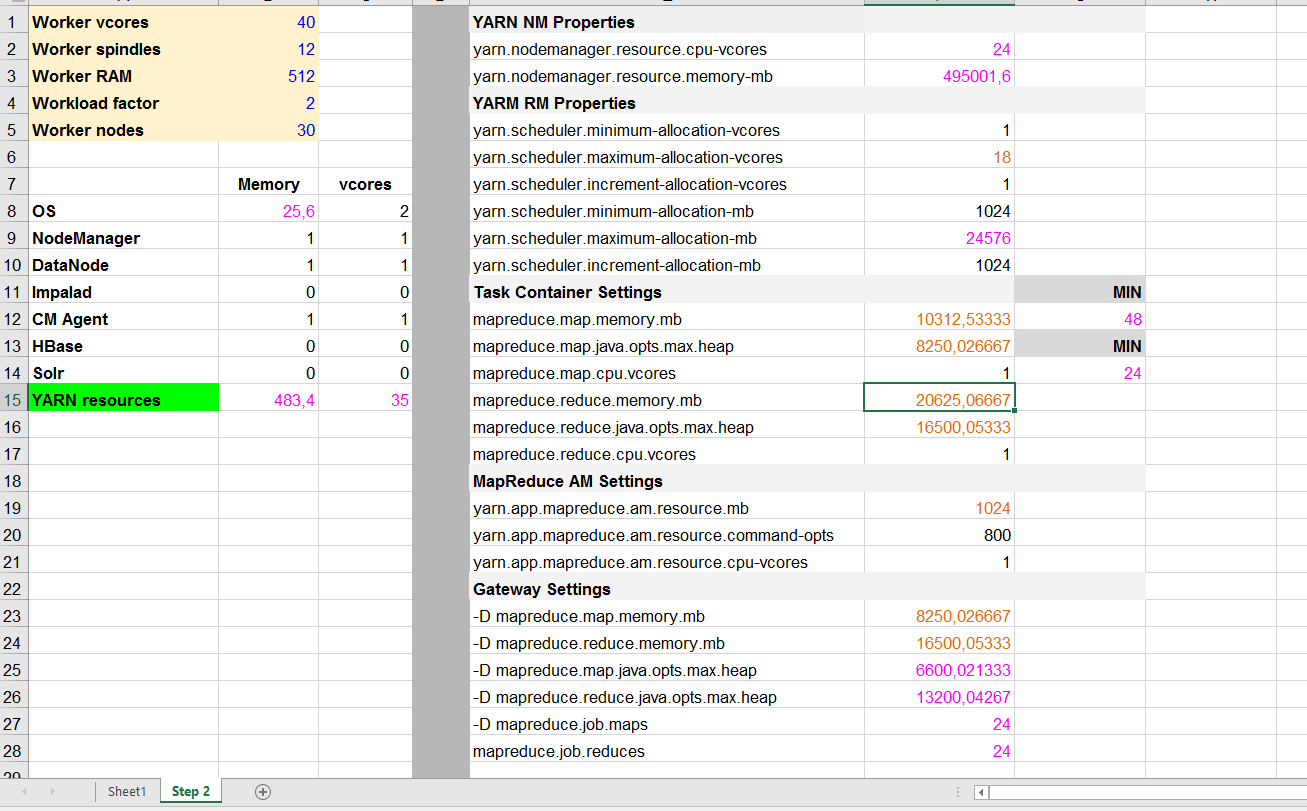
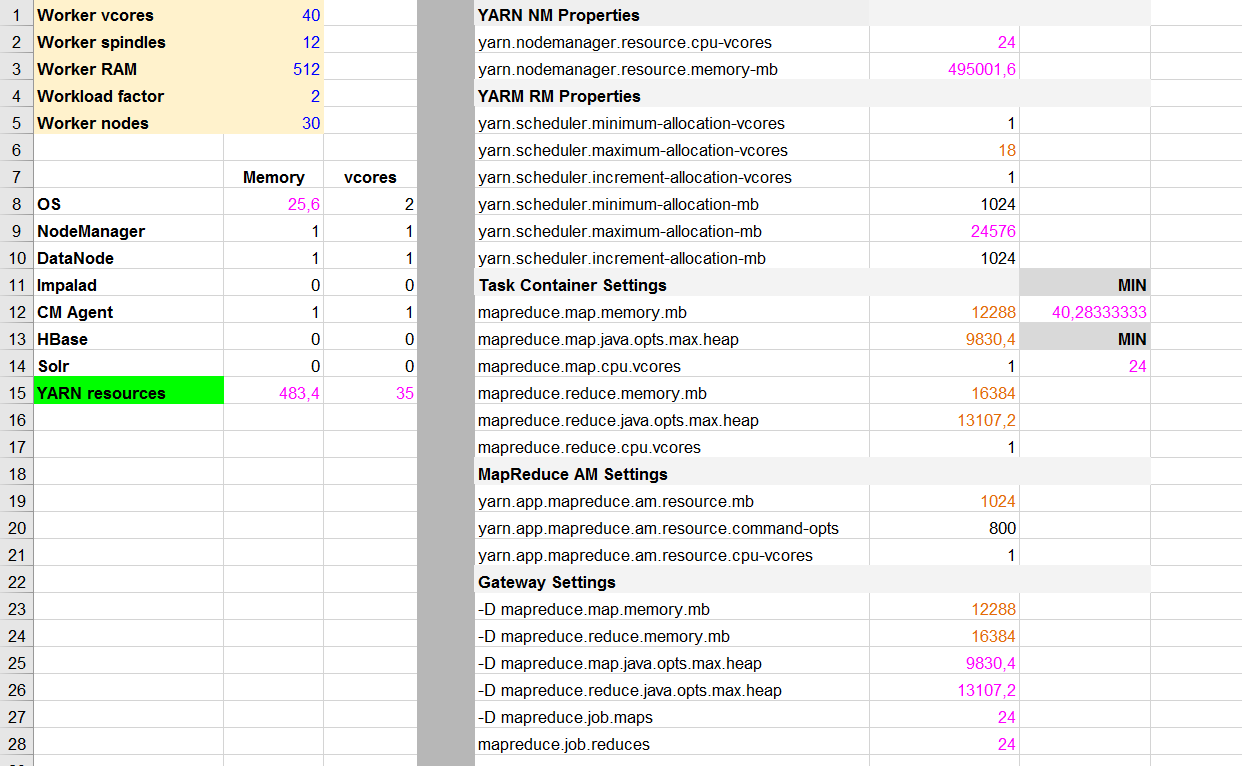
YARN/RM Lab: Doing the Math finished

diff --git a/resources/labs/0_YarnCalcs.md b/resources/labs/0_YarnCalcs.md
@@ -1,0 +1,48 @@
+#What criteria affects workload factor? What does a value of 1, 2, or 4 signify?
+The workload factor should be affected by the number of cores and spindles.
+A value of 2 (or higher) normally means the nodes(cluster) are IO bound.
+A value lower than 2 means that it is CPU bound.
+If there are more than twice as much cores as there are spindles, higher values than 2 should make no change.
+
+
+#Adjustments I made
+> OS MEMORY - I reduced the percentage of memory dedicated to OS from 10% to 5% because the worker nodes have 512gb of RAM. 10% is a bit too much.
+
+> YARN RM PROPERTIES
+>> yarn.scheduler.maximum-allocation-vcores
+I changed to 18. It's 75% of the vcores per node.
+It's just the maximum value for allocated vcores, so for more demanding jobs that need it, this value should be more than sufficient (spark executors, for instance). It's not 100% because that way nothing else would run on a single node every time a specific app ran. 75% seems balanced enough to me.
+
+> Task Container Settings
+Because we are not memory bound in any way, I pushed these.
+>> mapreduce.map.memory.mb
+Total memory/total #vcores/2 = ~10gb
+I changed it to 12gb instead of 10gb just because there's a lot of ram per node (512gb)
+
+>> mapreduce.map.java.opts.max.heap
+80% of the previous parameter
+
+>> mapreduce.reduce.memory.mb
+Total memory/total #vcores/2 = ~10gb
+I changed it to 16gb just because there's a lot of ram per node (512gb)
+I pushed it furhter than the mapper because they usually need more ram than the mapper.
+I feel like that more than this could result in side effects in GC or other undesired behaviours.
+
+>> mapreduce.reduce.java.opts.max.heap
+80% of the previous parameter
+
+
+>MapReduce AM Settings
+>> yarn.app.mapreduce.am.resource.mb
+Changed it to 1024. I believe it was a typo. 1gb is usually enough.
+Just a side note:
+I don't recall the exact details, but I have seen a specific series of events when reading parquet that needed this to be set at 1.5gb. I have done it in one of the customers cluster.
+I think this is it - not sure:
+"Normally, AM’s 1G java heap size is enough for many jobs. However, if the job is to write lots of parquet files, during commit phase of the job, AM will call ParquetOutputCommitter.commitJob(). It will first read footers of all output parquet files, and write the metadata file named “_metadata” in output directory."
+https://www.mapr.com/blog/best-practices-yarn-resource-management
+
+
+> Gateway Settings
+>> mapreduce.map.memory.mb
+>> mapreduce.reduce.memory.mb
+I set these as the same as the container settings. These are client-side settings that can be overridden, so this is just a suggestion in my opinion.
